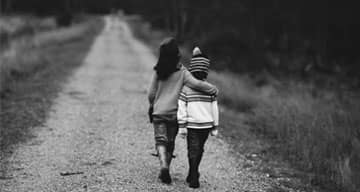
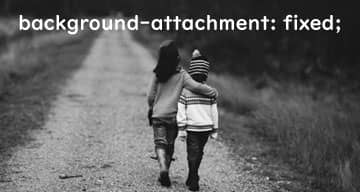
UPDATE

diff --git a/sample-code/22/index.html b/sample-code/22/index.html
@@ -1,0 +1,159 @@
+<!DOCTYPE html>
+<html lang="ja">
+<head prefix="og: http://ogp.me/ns# article: http://ogp.me/ns/article#">
+  <meta charset="utf-8">
+  <meta http-equiv="X-UA-Compatible" content="IE=edge">
+  <meta name="viewport" content="width=device-width,initial-scale=1">
+  <link rel="stylesheet" href="style.css">
+  <link rel="icon" href="../../favicon.ico">
+  <link rel="canonical" href="https://yellowredfox.github.io/sample-code/22">
+  <title>position（fixed）で背景画像かのように固定表示する方法</title>
+  <meta name="format-detection" content="telephone=no">
+  <meta name="description" content="CSSの position（fixed）プロパティを使って画像（ヒーローイメージ）を固定表示する方法です。">
+  <meta name="author" content="イールド（月の森デザイン）">
+  <meta property="og:locale" content="ja_JP">
+  <meta property="og:site_name" content="キアカラボ">
+  <meta property="og:title" content="position（fixed）で背景画像かのように固定する方法">
+  <meta property="og:description" content="CSSの position（fixed）プロパティを使って画像（ヒーローイメージ）を固定表示する方法です。">
+  <meta property="og:type" content="article">
+  <meta property="og:url" content="https://yellowredfox.github.io/sample-code/22">
+</head>
+<body>
+
+  <header class="header">
+    <div class="header__container">
+      <h1 class="siteTitle">position（fixed）で<br class="siteTitle__br">背景画像かのように固定表示する方法</h1>
+    </div>
+  </header>
+
+  <div class="mainVisual">
+    <img class="mainVisual__img" src="mainVisual.jpg">
+  </div>
+
+  <main class="main">
+    <div class="main__inner">
+
+      <section class="contents">
+        <h2 id="summary" class="heading-2" data-subheading="A brief description of the code">コード概要</h2>
+        <section class="content">
+          <h3 class="heading-3">要点</h3>
+          <p>今回は、CSSの object-fitプロパティでフル画面表示した画像を、position（fixed）プロパティを使って、背景画像であるかのように固定する方法について書きます。</p>
+          <p><a href="https://yellowredfox.github.io/sample-code/14">object-fitで画面いっぱいに表示した画像</a>を固定することで、スクロールすると画像の下に位置するコンテンツ部分（main要素）が少しずつかぶっていくような表示になります。</p>
+          <p>やっていることは、前回の <a href="https://yellowredfox.github.io/sample-code/21">background-attachmentで背景画像を固定する方法</a>と同じですが、background-attachmentプロパティは Safari（iOS）がまだ十分に対応できていないようなので、他のやり方も検討しておくことにしました。ポイントは以下ようです。</p>
+          <ul>
+						<li>img要素を入れる親要素を起点とするために「position: relative;」を指定し、「height: 100vh;」も指定しておきます。親要素にも「height: 100vh;」しておかないとダメみたいです。</li>
+						<li>img要素を固定するために「position: fixed;」、「top: 0;」、「left: 0;」を指定します。また、レイヤーを下層にしたいので「z-index: -1;」も指定します。</li>
+						<li>この背景画像部分（mainVisual）とその下に表示するコンテンツ（main要素）との間は margin-bottomを使用していましたが、効かないようなので、コンテンツ側に paddingを入れて調整しました。</li>
+						<li>コンテンツ（main要素）に背景色をつけていない場合は透過してしまうので、色を指定しました。</li>
+						<li>コンテンツ（main要素）と footer要素の間に margin-bottomを入れると隙間ができて、再び背景画像が出現するかのような表現になります。たまたまこうなったのですが、こういう形にしているホームページがどこかにあったような気がするので、そのままにしてあります。</li>
+          </ul>
+        </section>
+        <!-- /.content -->
+        <section class="content">
+          <h3 class="heading-3">コード</h3>
+          <h4 class="heading-4">HTML</h4>
+<pre class="code">
+<code>
+&lt;div class="mainVisual"&gt;
+  &lt;img class="mainVisual__img" src="mainVisual.jpg"&gt;
+&lt;/div&gt;
+</code>
+</code>
+</pre>
+
+          <h4 class="heading-4">CSS</h4>
+<pre class="code">
+<code>
+.mainVisual {
+  position: relative;
+  height: 100vh;
+}
+.mainVisual__img {
+  position: fixed;
+  top: 0;
+  left: 0;
+  width: 100%;
+  max-width: 1920px;
+  height: 100vh;
+  z-index: -1;
+  object-fit: cover;
+}
+</code>
+</pre>
+
+        </section>
+        <!-- /.content -->
+      </section>
+      <!-- /.contents -->
+
+      <section id="relate" class="contents">
+        <h2 id="relate" class="heading-2" data-subheading="Articles related to this information">関連記事</h2>
+        <section class="content">
+          <ul>
+						<li><a href="https://yellowredfox.github.io/sample-code/21">background-attachmentで背景画像を固定する方法</a></li>
+            <li><a href="https://yellowredfox.github.io/sample-code/13">backgroundで画像を画面いっぱいに表示する方法</a></li>
+						<li><a href="https://yellowredfox.github.io/sample-code/14">object-fitで画像を画面いっぱいに表示する方法</a></li>
+          </ul>
+        </section>
+        <!-- /.content -->
+      </section>
+      <!-- /.contents -->
+
+      <section class="contents">
+        <h2 id="note" class="heading-2" data-subheading="Editor's Note and Document that I used as a reference">編集後記</h2>
+        <section class="content">
+          <h3 class="heading-3">あとがき</h3>
+          <ul>
+            <li>画面いっぱいに画像を表示する方法として、backgroundプロパティよりも object-fitプロパティが使われることが増えてきていること。そして、background-attachmentプロパティはまだ Safari（iOS）が対応できていないこと。この 2つの状況から、object-fitでフル画面表示した画像を、position（fixed）を使って、背景画像であるかのように固定する方法を試してみることにしました。</li>
+          </ul>
+        </section>
+        <!-- /.content -->
+        <section class="content">
+          <h3 class="heading-3">参考資料</h3>
+          <p>参考にさせていただいたページはとくにありませんでした。</p>
+        </section>
+        <!-- /.content -->
+      </section>
+      <!-- /.contents -->
+
+      <div class="postFooter">
+        <div class="postDate">
+          作成日: <time class="releaseDate" datetime="2021-5-21">2021年5月21日</time>
+        </div>
+        <div class="postAuthor">
+          投稿者: イールド
+        </div>
+      </div>
+      <!-- /.postFooter -->
+
+    </div>
+    <!-- /.main__inner -->
+  </main>
+
+  <footer class="footer">
+    <div class="footer__inner">
+      <div class="profile">
+        <a class="backSignboard" href="https://yellowredfox.github.io/">
+          <img class="backSignboard__logo" src="../../img/logo-yellowredfox.png" alt="月の森デザインの漫画キャラクター：黄赤狐のプロフィールロゴ">
+          <h2 class="backSignboard__title">キアカラボ</h2>
+        </a>
+        <p class="office">
+          キアカラボは「<a href="https://moon-forest-design.com/" title="ホームページ制作の「月の森デザイン」" target="_blank">月の森デザイン</a>」の姉妹サイトです。
+        </p>
+      </div>
+      <div class="copyright">
+        <p><small>Copyright &copy; 2021 <a class="copyrightHolder" href="https://moon-forest-design.com/">月の森デザイン</a> All Rights Reserved.</small></p>
+      </div>
+    </div>
+  </footer>
+
+  <noscript>
+    <p>お使いのWebブラウザは、JavaScriptの設定がOFF（無効）になっているようです。</p>
+    <p>このWebサイトを、より良い形でご利用になるためには、JavaScriptの設定をON（有効）にする必要があります。</p>
+    <p>お手間さまですが、ご検討くださいますよう、よろしくお願い申しあげます。</p>
+  </noscript>
+  <script src="https://ajax.googleapis.com/ajax/libs/jquery/3.3.1/jquery.min.js"></script>
+  <script src="main.js"></script>
+
+</body>
+</html>

diff --git a/sample-code/21/index.html b/sample-code/21/index.html
@@ -37,7 +37,7 @@
         <h2 id="summary" class="heading-2" data-subheading="A brief description of the code">コード概要</h2>
         <section class="content">
           <h3 class="heading-3">要点</h3>
-          <p>今回は、CSSの background-attachmentプロパティを使って、背景画像を固定する方法について書きます。<a href="https://yellowredfox.github.io/sample-code/13">backgroundで画面いっぱいに表示した画像</a>を固定することで、スクロールすると画像の下に位置するコンテンツ部分が少しずつかぶっていくような表示になります。ポイントは以下ようです。</p>
+          <p>今回は、CSSの background-attachmentプロパティを使って、背景画像を固定する方法について書きます。<a href="https://yellowredfox.github.io/sample-code/13">backgroundで画面いっぱいに表示した画像</a>を固定することで、スクロールすると画像の下に位置するコンテンツ部分（main要素）が少しずつかぶっていくような表示になります。ポイントは以下ようです。</p>
           <ul>
             <li>空の div要素を用意し、CSSの backgroundプロパティで背景画像（ヒーローイメージ）を指定する。</li>
             <li>背景画像に、background-attachment: fixed;を指定する。</li>
@@ -78,6 +78,7 @@
         <section class="content">
           <ul>
             <li><a href="https://yellowredfox.github.io/sample-code/13">backgroundで画像を画面いっぱいに表示する方法</a></li>
+            <li><a href="https://yellowredfox.github.io/sample-code/22">position（fixed）で背景画像かのように固定表示する方法</a></li>
           </ul>
         </section>
         <!-- /.content -->
@@ -89,7 +90,7 @@
         <section class="content">
           <h3 class="heading-3">あとがき</h3>
           <ul>
-            <li>パララックス（視差効果）で、わちゃわちゃしているとうるさい印象を持ちますが、これは良いと思います。</li>
+            <li>ホームページにパララックス・エフェクト（視差効果）が使われていると、わちゃわちゃしていて「うるさい」と感じることもありそうですが、これは良い印象を持つのではないでしょうか。このくらいがちょうど良さそうです。</li>
           </ul>
         </section>
         <!-- /.content -->
@@ -106,7 +107,7 @@
 
       <div class="postFooter">
         <div class="postDate">
-          作成日: <time class="releaseDate" datetime="2021-5-12">2021年5月20日</time>
+          作成日: <time class="releaseDate" datetime="2021-5-20">2021年5月20日</time>
         </div>
         <div class="postAuthor">
           投稿者: イールド

diff --git a/sample-code/22/style.css b/sample-code/22/style.css
@@ -21,35 +21,39 @@ body {
 /* header
 ================================================== */
 .header {
-  position: relative;
+  /* position: relative; */
   color: #fffffc;
 }
 .header__container {
-  position: absolute;
+  /* position: absolute; */
   display: flex;
   justify-content: center;
   width: 100%;
-  max-width: 1920px;
-  padding: 3em 1em;
+  padding: 6em 1em;
   box-sizing: border-box;
-  background-color: rgba(0, 0, 0, .5);
 }
 .siteTitle {
-  letter-spacing: .1em;
+  letter-spacing: .15em;
 }
 @media screen and (max-width: 576px) { /* スマホ用 */
   .siteTitle {
-    font-size: 1.3rem;
+    font-size: 1.6rem;
   }
 }
 @media screen and (min-width: 577px) and (max-width: 991px) { /* タブレット用 */
   .siteTitle {
-    font-size: 2.2rem;
+    font-size: 2.1rem;
+  }
+  .siteTitle__br {
+    display: none;
   }
 }
 @media screen and (min-width: 992px) { /* それ以外用 */
   .siteTitle {
     font-size: 3.5rem;
+  }
+  .siteTitle__br {
+    display: none;
   }
 }
 
@@ -57,12 +61,17 @@ body {
 /* mainVisual
 ================================================== */
 .mainVisual {
-  /* margin-bottom: 10em; */
+  position: relative;
+  height: 100vh;
 }
 .mainVisual__img {
+  position: fixed;
+  top: 0;
+  left: 0;
   width: 100%;
   max-width: 1920px;
   height: 100vh;
+  z-index: -1;
   object-fit: cover;
 }
 
@@ -70,7 +79,8 @@ body {
 /* main
 ================================================== */
 .main {
-  /* margin-bottom: 15em; */
+  margin-bottom: 500px;
+  background-color: #fff;
 }
 .main__inner {
   margin: 0 auto;

diff --git a/index.html b/index.html
@@ -43,8 +43,27 @@
 
           <div class="card">
             <h3 class="cardTitle">
+              <a class="cardTitle__link" href="sample-code/22/index.html" target="_blank">
+                背景画像を固定する方法2
+              </a>
+            </h3>
+            <figure class="cardThumbnail">
+              <a class="cardThumbnail__link" href="sample-code/22/index.html" target="_blank">
+                <img class="cardThumbnail__img" src="img/sample-code22.jpg" alt="position（fixed）で背景画像を固定する方法" width="260" height="140">
+                <p class="cardThumbnail__description">CSSの position（fixed）プロパティを使って画像（ヒーローイメージ）を固定表示する方法です。</p>
+              </a>
+              <ul class="cardMenu">
+                <li class="cardMenu__item"><a class="cardMenu__link" href="sample-code/22/index.html" target="_blank">Sample</a></li>
+                <li class="cardMenu__item"><a class="cardMenu__link" href="https://github.com/yellowredfox/yellowredfox.github.io/tree/main/sample-code/22" target="_blank">Code</a></li>
+              </ul>
+            </figure>
+          </div>
+          <!-- /.card -->
+
+          <div class="card">
+            <h3 class="cardTitle">
               <a class="cardTitle__link" href="sample-code/21/index.html" target="_blank">
-                背景画像を固定する方法
+                背景画像を固定する方法1
               </a>
             </h3>
             <figure class="cardThumbnail">
